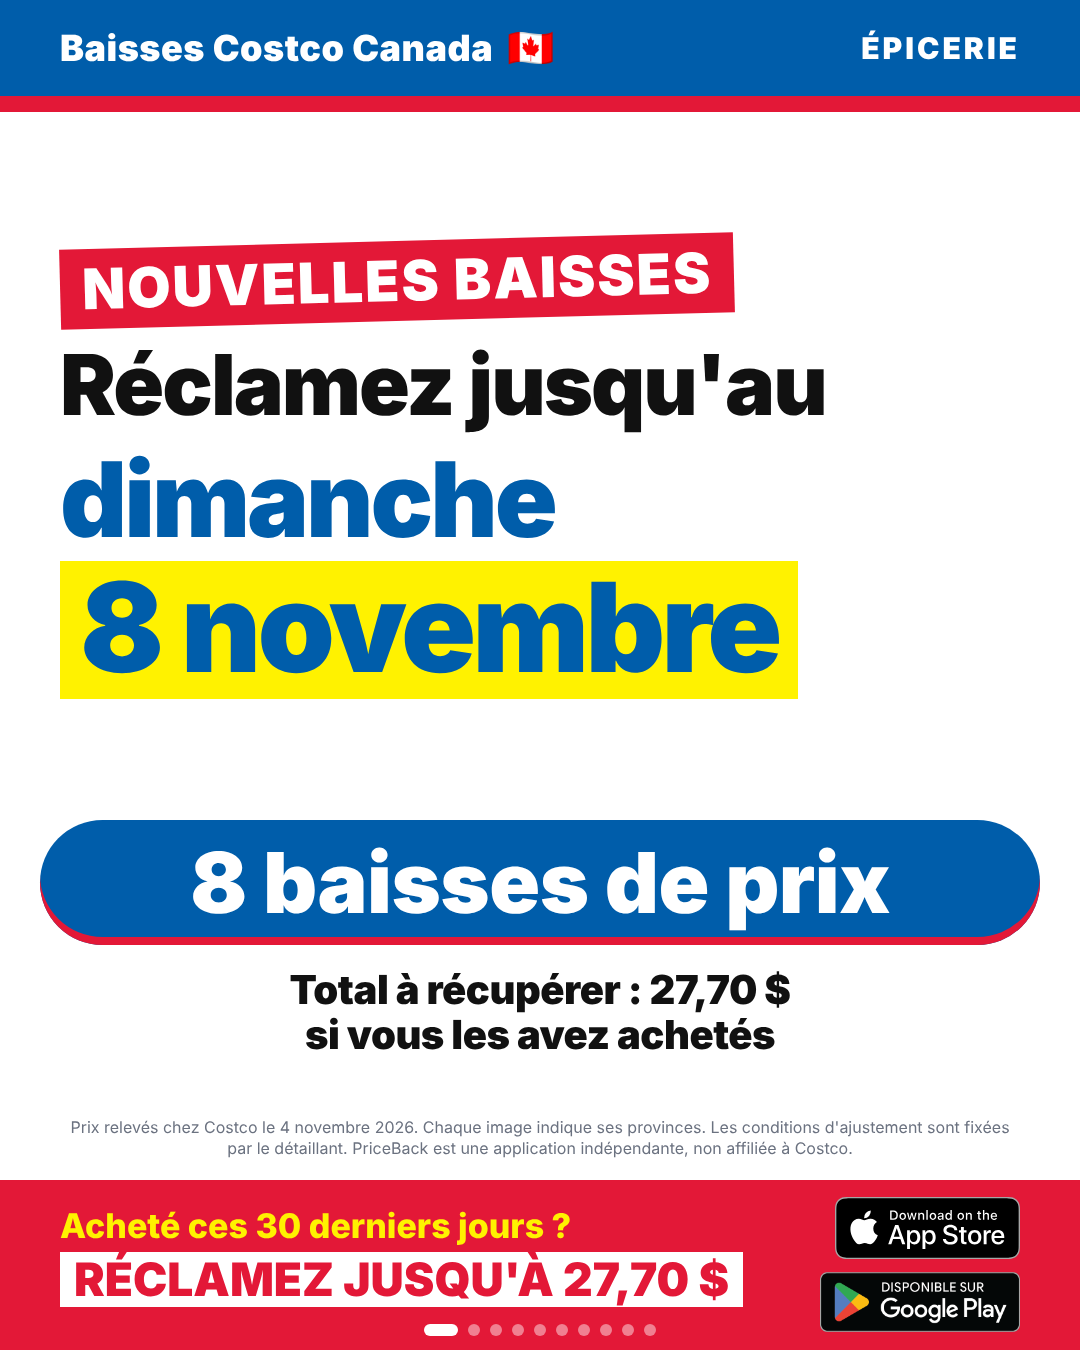
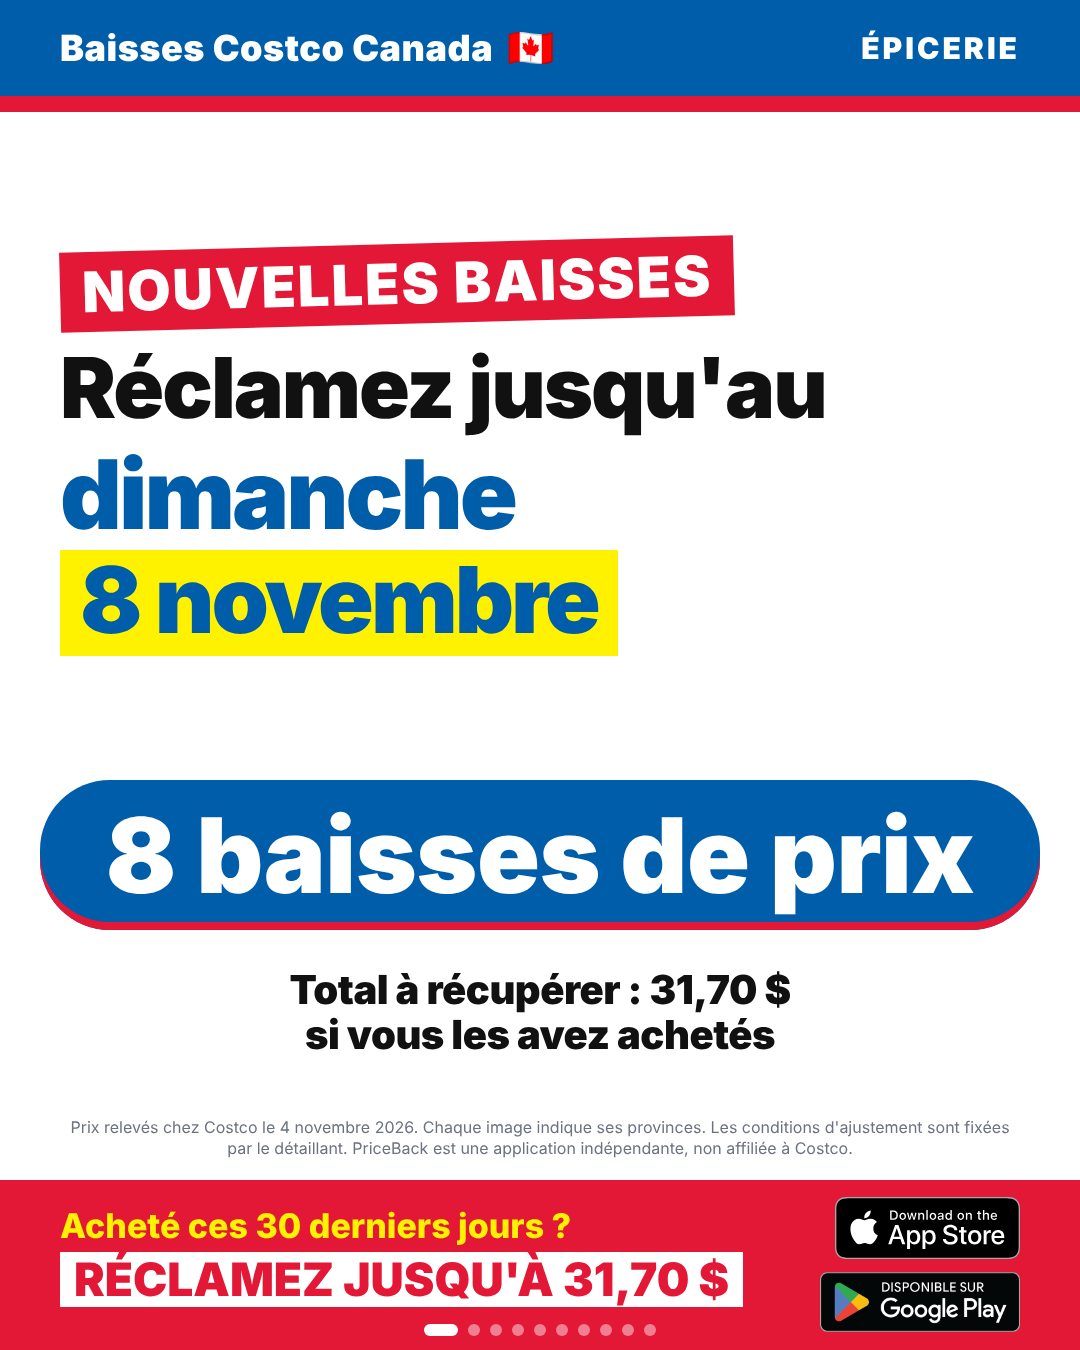
Nov 8 grocery: drop count bigger than the date, BUILT Puff -$6 replaces the $2 bread; rules
Claude-Session: https://claude.ai/code/session_01VjE6kbZomcwAZjPFvvTkSW

diff --git a/sm-content/08-costco-price-drops/scenes/render.js b/sm-content/08-costco-price-drops/scenes/render.js
@@ -495,20 +495,21 @@ const CLAIM_CSS = `
 .cc-top .flag{font-style:normal;font-family:"Noto Color Emoji";font-size:38px}
 .cc-top b{color:#fff;font-size:30px;font-weight:900;letter-spacing:3px}
 .cc-stripe{top:96px}
-.cc-mid{position:absolute;left:60px;right:60px;top:150px;height:640px;display:flex;flex-direction:column;justify-content:center}
+.cc-mid{position:absolute;left:60px;right:60px;top:140px;height:620px;display:flex;flex-direction:column;justify-content:center}
 .cc-new{align-self:flex-start;background:var(--red);color:#fff;font-weight:900;font-size:56px;letter-spacing:2px;padding:6px 22px;transform:rotate(-1.5deg);margin-bottom:22px}
 .cc-until{color:#111;font-weight:900;font-size:96px;line-height:1;letter-spacing:-2px}
 .fr .cc-until{font-size:84px}
-.cc-day{color:var(--blue);font-weight:900;font-size:104px;line-height:1.05;letter-spacing:-3px;margin-top:18px;text-transform:capitalize}
+.cc-day{color:var(--blue);font-weight:900;font-size:96px;line-height:1.05;letter-spacing:-3px;margin-top:14px;text-transform:capitalize}
 .fr .cc-day{text-transform:none}
-.cc-date{display:inline-block;align-self:flex-start;background:var(--yel);color:var(--blue);font-weight:900;font-size:150px;line-height:1;letter-spacing:-6px;padding:4px 20px 10px;margin-top:6px;white-space:nowrap}
-.fr .cc-date{font-size:124px;letter-spacing:-4px}
-.cc-date.rng{font-size:132px;letter-spacing:-4px;margin-top:22px}
-.fr .cc-date.rng{font-size:104px}
-.cc-count{position:absolute;left:40px;right:40px;top:820px;text-align:center;font-weight:900;font-size:84px;color:#fff;background:var(--blue);border-radius:70px;padding:12px 0;letter-spacing:-.5px;box-shadow:inset 0 -8px 0 var(--red)}
+.cc-date{display:inline-block;align-self:flex-start;background:var(--yel);color:var(--blue);font-weight:900;font-size:100px;line-height:1;letter-spacing:-3px;padding:4px 20px 10px;margin-top:6px;white-space:nowrap}
+.fr .cc-date{font-size:92px;letter-spacing:-3px}
+.cc-date.rng{font-size:96px;letter-spacing:-4px;margin-top:22px}
+.fr .cc-date.rng{font-size:84px}
+.cc-count{position:absolute;left:40px;right:40px;top:780px;text-align:center;font-weight:900;font-size:124px;color:#fff;background:var(--blue);border-radius:70px;padding:12px 0;letter-spacing:-.5px;box-shadow:inset 0 -8px 0 var(--red)}
 .cc .disc{bottom:190px}
 .cc-total{position:absolute;left:40px;right:40px;top:968px;text-align:center;font-weight:900;font-size:44px;color:#111;letter-spacing:-.5px}
 .fr .cc-total{font-size:40px}
+.fr .cc-count{font-size:104px}
 .cc-total{line-height:1.12}
 .cc-biz{position:absolute;left:0;right:0;top:112px;background:var(--yel);color:#111;text-align:center;font-weight:900;font-size:34px;letter-spacing:1px;padding:8px 0;text-transform:uppercase}
 .fr .cc-biz{font-size:28px}

diff --git a/RULES-README.md b/RULES-README.md
@@ -32,7 +32,9 @@ Deal posts are real Costco price drops with product photos. They matter more tha
     still running is not "new".
   - **Which items first** (Monica, 2026-11-04): daily, common groceries (the most-bought staples: milk, cheese,
     yogurt, eggs, bread, meat, canned basics, snacks families buy every week) with the highest savings. Not enough?
-    Loosen to other grocery items. Still not enough? Take smaller savings.
+    Loosen to other grocery items. Still not enough? Take smaller savings. **Prefer any item over $2 off to a $2
+    item** (Monica, 2026-11-04: BUILT Puff −$6 replaced Villaggio bread −$2); go down to $2 only when nothing
+    bigger with a clean photo is left in the category and end date.
   - **Business Centre and warehouse savings are never in the same carousel** (Monica, 2026-11-04): separate
     carousels, and a Business Centre cover says "Only in Costco Business Centres" (FR "Seulement dans les
     Centres d'entreprises Costco"); `"businessCentre": true` in the week file. **Never an item already posted** in an earlier carousel:
@@ -42,8 +44,9 @@ Deal posts are real Costco price drops with product photos. They matter more tha
     1. "Costco Canada Drops 🇨🇦" (FR "Baisses Costco Canada 🇨🇦"): top, small.
     2. "New drops · Claim until Sunday, Nov 15": middle, HUGE. The weekday + date when every item ends the same
        day (preferred); otherwise every end date listed ("Nov 15 & 29"), never a from–to range.
-    3. The number of drops ("8 price drops"): bottom. **Bigger than the date** (the count matters more for a
-       save; the yellow date box is slightly smaller than the pill, Monica 2026-11-04).
+    3. The number of drops ("8 price drops"): bottom. **The count is clearly bigger than the date** (Monica,
+       2026-11-04, said twice): they must not compete; the number of drops sells the save more than the date.
+       Today: date 100px, count 124px (FR 92 / 104).
     4. The red footer, bigger: "Bought in the last 30 days?" in yellow, then "CLAIM UP TO $27.70 BACK" in a
        white box (FR "Acheté ces 30 derniers jours ?" / "RÉCLAMEZ JUSQU'À 27,70 $").
   - **The end card stays as is and is the last slide of every carousel.**

diff --git a/sm-content/08-costco-price-drops/STYLE.md b/sm-content/08-costco-price-drops/STYLE.md
@@ -84,13 +84,14 @@ offers per carousel, EN + FR, province strip on every item, the claim cover, the
 - Photos: Same-Day search by item number (`sameday.costco.ca/store/costco-canada/s?k=<item #>` in headless
   Chromium; search shows the store's region, so western-only items may miss) or costco.ca
   (`gdx-assets.costco.com/.../<item #>-894__1.jpg`). Check every photo by eye. No clean photo, no post.
-- Cover (latest, 2026-11-04): total line on two lines without "all"; "8 price drops" pill bigger than the date
-  box; red footer "Bought in the last 30 days?" + white box "CLAIM UP TO $X BACK".
+- Cover (latest, 2026-11-04): total line on two lines without "all"; "8 price drops" clearly bigger than the date
+  (date 100px, count 124px; FR 92/104); red footer "Bought in the last 30 days?" + white box "CLAIM UP TO $X BACK".
 - Item slides: `"bigClaim": true` → red footer "PAID $X in the last 30 days?" + white box "CLAIM $Y BACK" (the
   `.huge` class). Category in the top band white, bold, 30px.
 - Business Centre carousels are separate: `"businessCentre": true` adds the yellow "Only in Costco Business
   Centres" ribbon on the cover.
-- Item choice: everyday staples with the highest savings first, then other groceries, then smaller savings. Query:
+- Item choice: everyday staples with the highest savings first, then other groceries, then smaller savings;
+  anything over $2 off beats a $2 item. Query:
   `valid_from` ≥ the week's Monday and `created_at` ≥ that Monday.
 - Reels come only after Monica validates the slides. Every remark Monica makes is added as a rule here and in
   `RULES-README.md` §1.

diff --git a/sm-content/08-costco-price-drops/posts/2026-11-08-README.md b/sm-content/08-costco-price-drops/posts/2026-11-08-README.md
@@ -3,11 +3,11 @@
 Built from `priceback.savings` (Monica, 2026-11-04): savings valid from Mon Nov 2 and created Nov 2 or later,
 ending soonest (Nov 8), so this carousel goes out first. Everyday groceries with the highest savings first, clean
 photo, never posted before; warehouse savings only (Business Centre savings get their own carousel).
-Total possible back: $27.70.
+Total possible back: $31.70.
 
-KS canned chicken −$5 (West) · KS BellaVitano −$4 (East) · Ritz Bits −$4 (East) · KS mozzarella −$3.50 (West) ·
-Khaas halal yogurt −$3.20 (ON, QC) · Laughing Cow −$3 (all provinces) · Black Diamond Cheestrings −$3 (East) ·
-Villaggio bread −$2 (West).
+BUILT Puff protein bars −$6 (AB, BC, MB, NS, ON, QC) · KS canned chicken −$5 (West) · KS BellaVitano −$4 (East) · Ritz Bits −$4 (East) · KS mozzarella −$3.50 (West) ·
+Khaas halal yogurt −$3.20 (ON, QC) · Laughing Cow −$3 (all provinces) · Black Diamond Cheestrings −$3 (East).
+Villaggio bread −$2 was replaced by BUILT Puff (Monica: anything over $2 first).
 
 Next in line for Nov 8 once this one is validated: the rest of Grocery, Frozen, Home, Health & Beauty, a mixed
 carousel and a Business Centre carousel; then Nov 15, 22 and 29. Reels only after validation.
